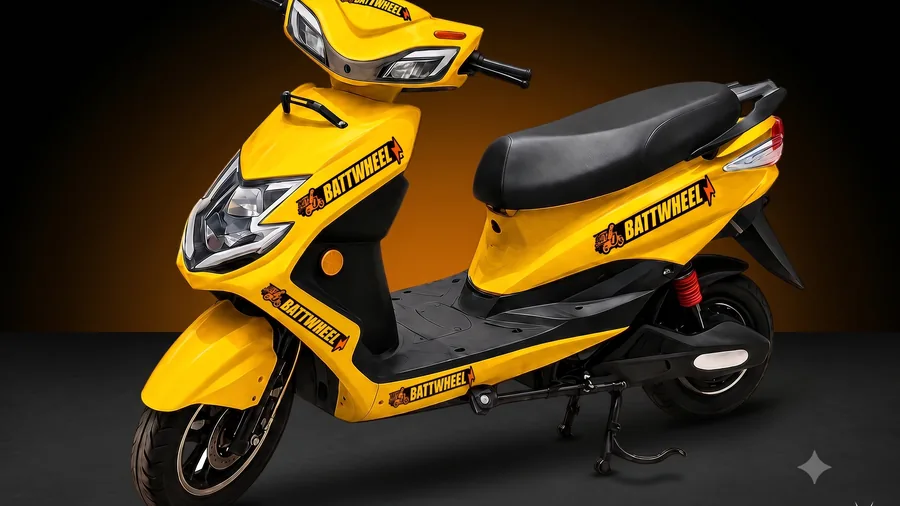
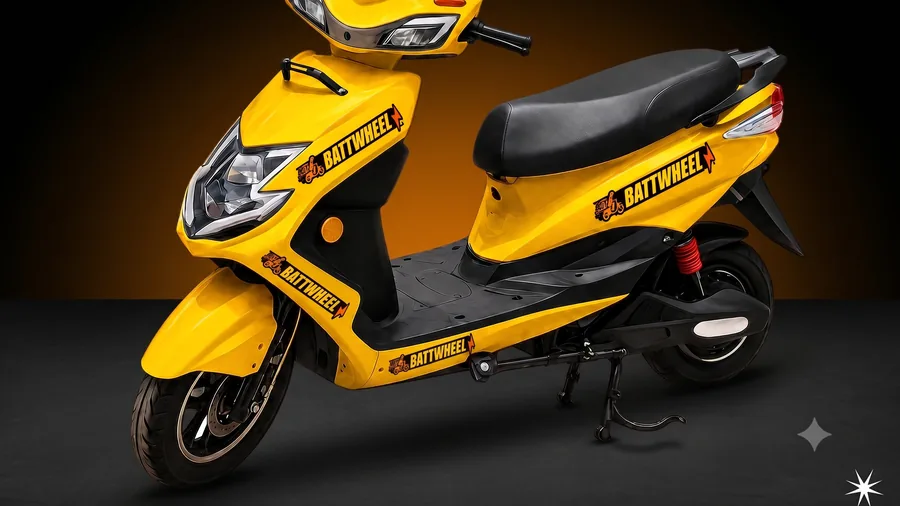
fix: give each "What you get" photo its own crop anchor
The centre crop shipped in edce546 cut into the subject on five of the six
cards. The frames do not share a composition, so one rule could not serve them:
four put the subject's base — wheels, the U-lock, the tool tray — within ~30px
of the bottom edge, and one is two people whose heads sit near the top. A
centred window shaved whichever end mattered.

Each image now carries a vertical anchor, expressed as a fraction of the slack
being removed (0 = keep the top, 1 = keep the bottom) so it survives a source
being re-exported at a different size. Values were read off the frames, not
assumed:

  Insurance and recovery      1.00  full U-lock on the front wheel; loses only
                                    shop signage, keeps the van and technician
  Servicing and maintenance   1.00  full front wheel and tool tray; gloved
                                    hands are mid-frame either way
  Live GPS tracking           1.00  scooter fully on the ground, all four HUD
                                    panels kept
  A rate that cannot move     0.85  full front wheel with clearance
  Vehicle and battery         0.80  both wheels with floor beneath
  Rider support               0.00  both heads with headroom — the only
                                    top-anchored frame

Two studio shots (Vehicle and battery, A rate that cannot move) have a bike
taller than the 16:9 window, so something has to go. A clipped wheel reads as
[…]

diff --git a/scripts/normalise-card-images.py b/scripts/normalise-card-images.py
@@ -6,11 +6,18 @@ supplied would be ~45 MB on a page that currently weighs a fraction of that.
 
 Two transforms, both of which exist because of how the tile renders:
 
-  * CROP TO 16:9. `Card.module.css` gives `.mediaBand` a fixed `aspect-ratio:
-    16 / 9` so a row of cards keeps its titles on one line. The sources are 3:2.
-    Cropping here rather than leaning on `object-fit: cover` alone means we ship
-    only the pixels that are actually visible — the CSS keeps `cover` as a
+  * CROP TO 16:9, FROM A PER-IMAGE ANCHOR. `Card.module.css` gives `.mediaBand`
+    a fixed `aspect-ratio: 16 / 9` so a row of cards keeps its titles on one
+    line. The sources are 3:2, so ~274px of height has to go. Cropping here
+    rather than leaning on `object-fit: cover` alone means we ship only the
+    pixels that are actually visible — the CSS keeps `cover` as a
     belt-and-braces guard if the tile ratio is ever changed.
+
+    A centre crop was the first attempt and the client rejected it: these six
+    frames do not share a composition. Four of them put the subject's base
+    (wheels, the U-lock, the tool tray) within ~30px of the bottom edge, so a
+    centred window shaves it; one is two people whose heads sit near the top.
+    Each image therefore carries its own ANCHOR — see `SELECTIONS`.
   * RESIZE TO 900px WIDE. `next.config.mjs` sets `images: { unoptimized: true }`
     (forced by `output: "export"` — the Next optimizer needs a server), so there
     is no srcset and ONE file serves every breakpoint. 900px covers the widest
@@ -40,14 +47,55 @@ QUALITY = 82
 
 IMAGE_EXTS = {".png", ".jpg", ".jpeg", ".gif", ".bmp", ".tif", ".tiff", ".webp"}
 
-# card title (EXACTLY as in siteContent.js) -> (source folder, option picked, slug)
+# The vertical crop anchor, as a fraction of the slack being removed:
+#   0.0 = keep the TOP of the frame (cut from the bottom)
+#   0.5 = centre
+#   1.0 = keep the BOTTOM of the frame (cut from the top)
+#
+# A fraction rather than a pixel offset on purpose: it stays correct if a source
+# is ever re-exported at a different size, where a hard-coded offset would not.
+#
+# Every value below was chosen by looking at the frame, not by rule of thumb.
+# card title (EXACTLY as in siteContent.js)
+#   -> (source folder, option picked, slug, anchor, why)
 SELECTIONS = {
-    "Insurance and recovery": ("Insurance and recovery", 3, "insurance-and-recovery"),
-    "Live GPS tracking": ("Live GPS tracking", 4, "live-gps-tracking"),
-    "Vehicle and battery": ("Vehicle and battery", 1, "vehicle-and-battery"),
-    "Rider support": ("Rider_support", 2, "rider-support"),
-    "Servicing and maintenance": ("Servicing and maintenance", 2, "servicing-and-maintenance"),
-    "A rate that cannot move": ("A_rate_that_cannot_move", 2, "a-rate-that-cannot-move"),
+    # The U-lock on the front wheel is the point of the shot and sits at the very
+    # bottom; a centred window cut through it. Nothing is lost at the top but
+    # shop signage, and the recovery van and walking technician stay in frame.
+    "Insurance and recovery": (
+        "Insurance and recovery", 3, "insurance-and-recovery", 1.0,
+    ),
+    # Bottom-anchored so the scooter sits fully on the ground inside the HUD.
+    # Costs only the garbled "BATWHEEL" title band at the top; all four HUD
+    # panels (route history, trip metrics, geo-fence, range) survive.
+    "Live GPS tracking": (
+        "Live GPS tracking", 4, "live-gps-tracking", 1.0,
+    ),
+    # Studio shot: the bike is ~1456px tall against a 1422px window, so it does
+    # not fit whole and something must go. Losing the bottom of a wheel reads as
+    # the bike sinking through the floor; losing the top of the handlebar stalk
+    # does not. 0.80 clears both wheels with floor beneath while trimming less
+    # off the top than a full bottom anchor would.
+    "Vehicle and battery": (
+        "Vehicle and battery", 1, "vehicle-and-battery", 0.80,
+    ),
+    # The ONLY top-anchored image. Two people, heads high in the frame — a
+    # bottom anchor grazed the left man's hair. What goes instead is their lower
+    # legs and empty road, which is ordinary framing for a landscape tile.
+    "Rider support": (
+        "Rider_support", 2, "rider-support", 0.0,
+    ),
+    # Bottom-anchored to clear the scooter's front wheel and keep the whole tool
+    # tray. The mechanic's gloved hands sit mid-frame and are safe either way;
+    # the top of the frame is workshop ceiling and cabinets.
+    "Servicing and maintenance": (
+        "Servicing and maintenance", 2, "servicing-and-maintenance", 1.0,
+    ),
+    # Same studio-shot trade-off as Vehicle and battery. The front wheel is the
+    # card's key visual, so it wins over the handlebar stalk.
+    "A rate that cannot move": (
+        "A_rate_that_cannot_move", 2, "a-rate-that-cannot-move", 0.85,
+    ),
 }
 
 
@@ -59,11 +107,11 @@ def options(folder: Path):
     )
 
 
-def crop_to_ratio(im: Image.Image, ratio: float) -> Image.Image:
-    """Centre-crop to `ratio`, trimming only the longer axis.
+def crop_to_ratio(im: Image.Image, ratio: float, anchor: float) -> Image.Image:
+    """Crop to `ratio`, trimming the longer axis from `anchor` (0=top, 1=bottom).
 
-    A centre crop is right for this set specifically: every render frames the
-    bike centrally, so the subject survives and what goes is sky and foreground.
+    Horizontal cropping stays centred: none of these sources needs a horizontal
+    anchor, and inventing one would be an untested knob.
     """
     w, h = im.size
     if w / h > ratio:
@@ -71,7 +119,8 @@ def crop_to_ratio(im: Image.Image, ratio: float) -> Image.Image:
         left = (w - new_w) // 2
         return im.crop((left, 0, left + new_w, h))
     new_h = round(w / ratio)
-    top = (h - new_h) // 2
+    slack = h - new_h
+    top = max(0, min(slack, round(slack * anchor)))
     return im.crop((0, top, w, top + new_h))
 
 
@@ -79,7 +128,7 @@ def main():
     DST.mkdir(parents=True, exist_ok=True)
     ratio = OUT_W / OUT_H
 
-    for title, (folder_name, pick, slug) in SELECTIONS.items():
+    for title, (folder_name, pick, slug, anchor) in SELECTIONS.items():
         folder = SRC / folder_name
         files = options(folder)
         if not 1 <= pick <= len(files):
@@ -91,14 +140,16 @@ def main():
         with Image.open(chosen) as im:
             im = im.convert("RGB")
             src_size = im.size
-            im = crop_to_ratio(im, ratio)
+            slack = src_size[1] - round(src_size[0] / ratio)
+            im = crop_to_ratio(im, ratio, anchor)
             im = im.resize((OUT_W, OUT_H), Image.LANCZOS)
             im.save(out, "WEBP", quality=QUALITY, method=6)
 
+        where = {0.0: "top", 0.5: "centre", 1.0: "bottom"}.get(anchor, "bottom-weighted")
         print(
-            f"{title:28} opt {pick}  {chosen.name:34} "
-            f"{src_size[0]}x{src_size[1]} {chosen.stat().st_size / 1e6:.1f}MB "
-            f"-> {out.name} {OUT_W}x{OUT_H} {out.stat().st_size / 1e3:.0f}KB"
+            f"{title:28} opt {pick}  anchor {anchor:.2f} ({where}) "
+            f"cut {round(slack * anchor):3}px top / {slack - round(slack * anchor):3}px bottom  "
+            f"-> {out.name} {out.stat().st_size / 1e3:.0f}KB"
         )
 
 
